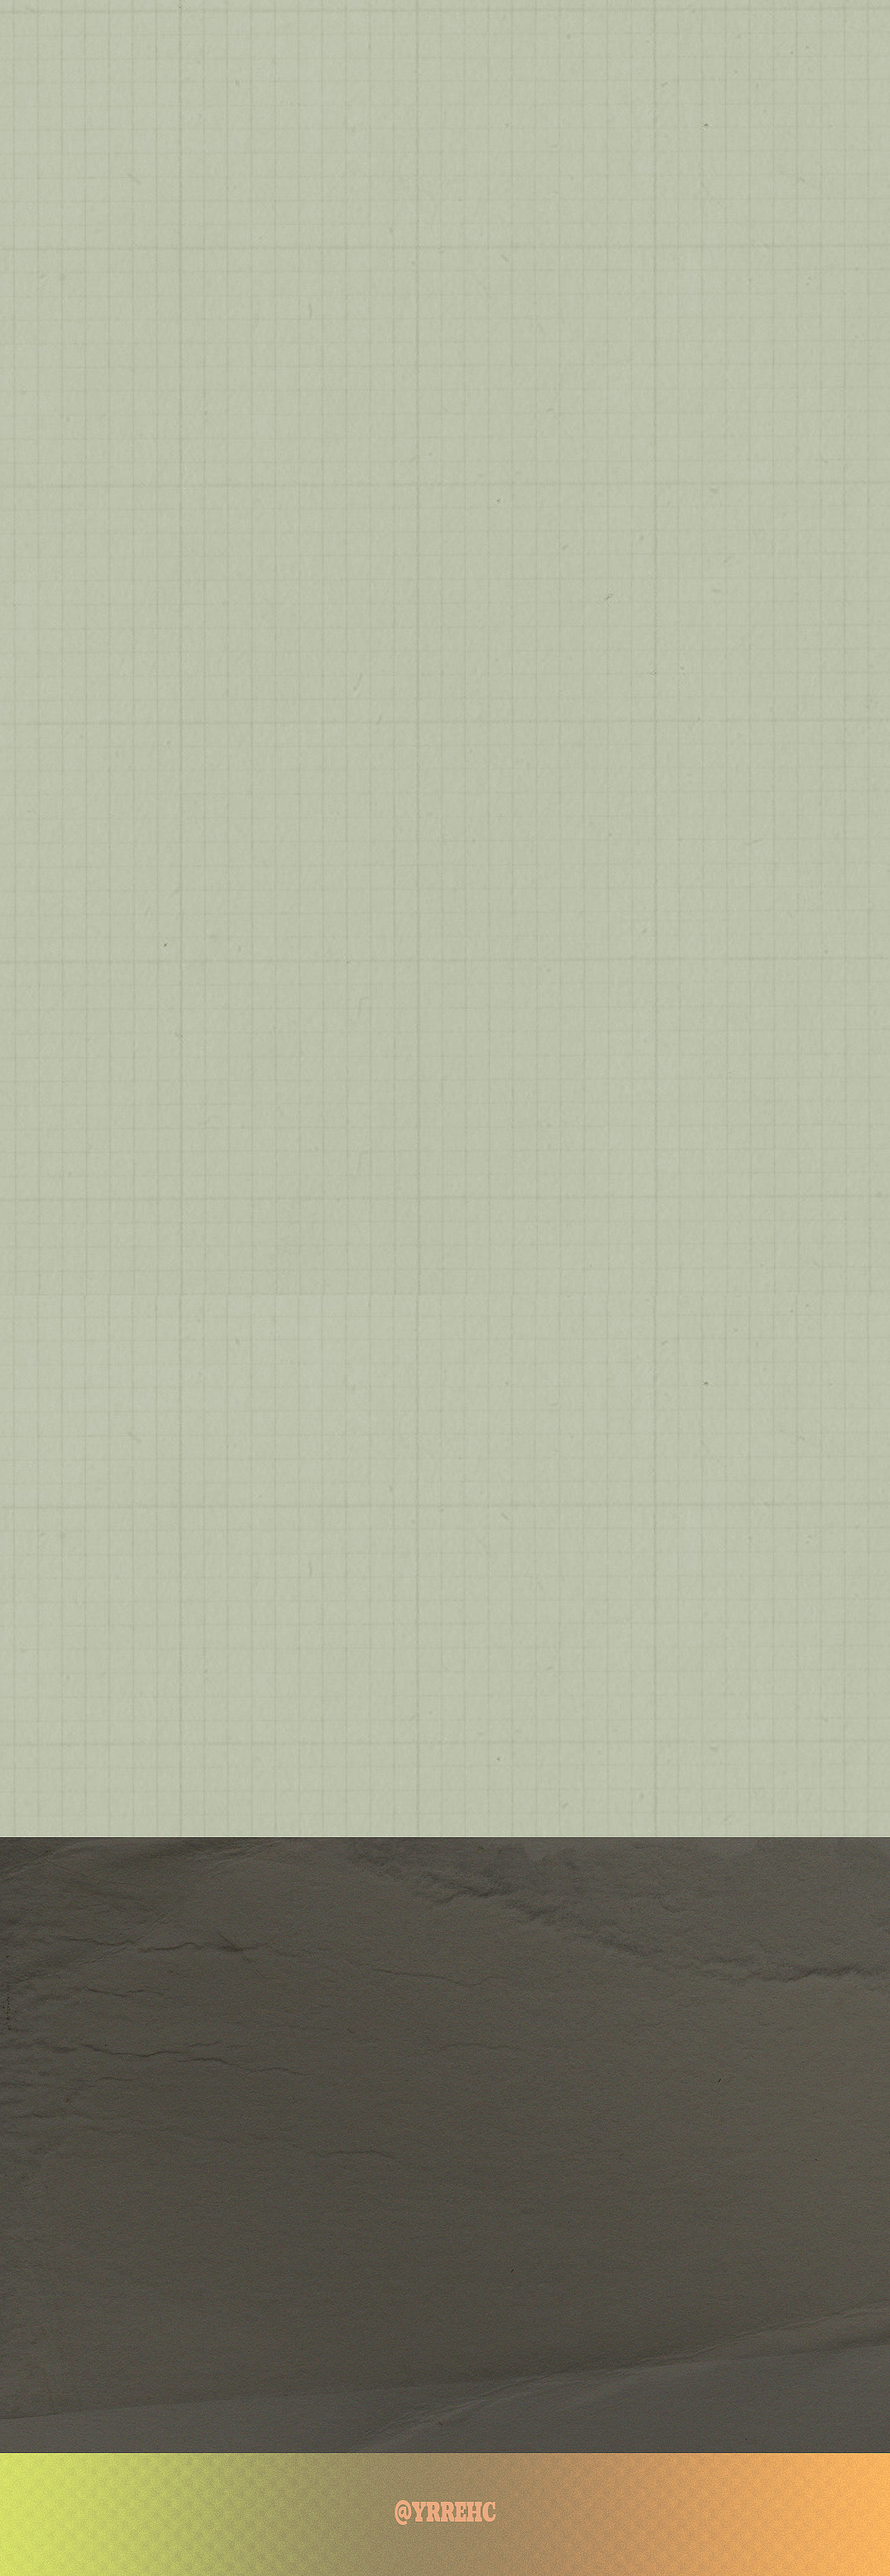
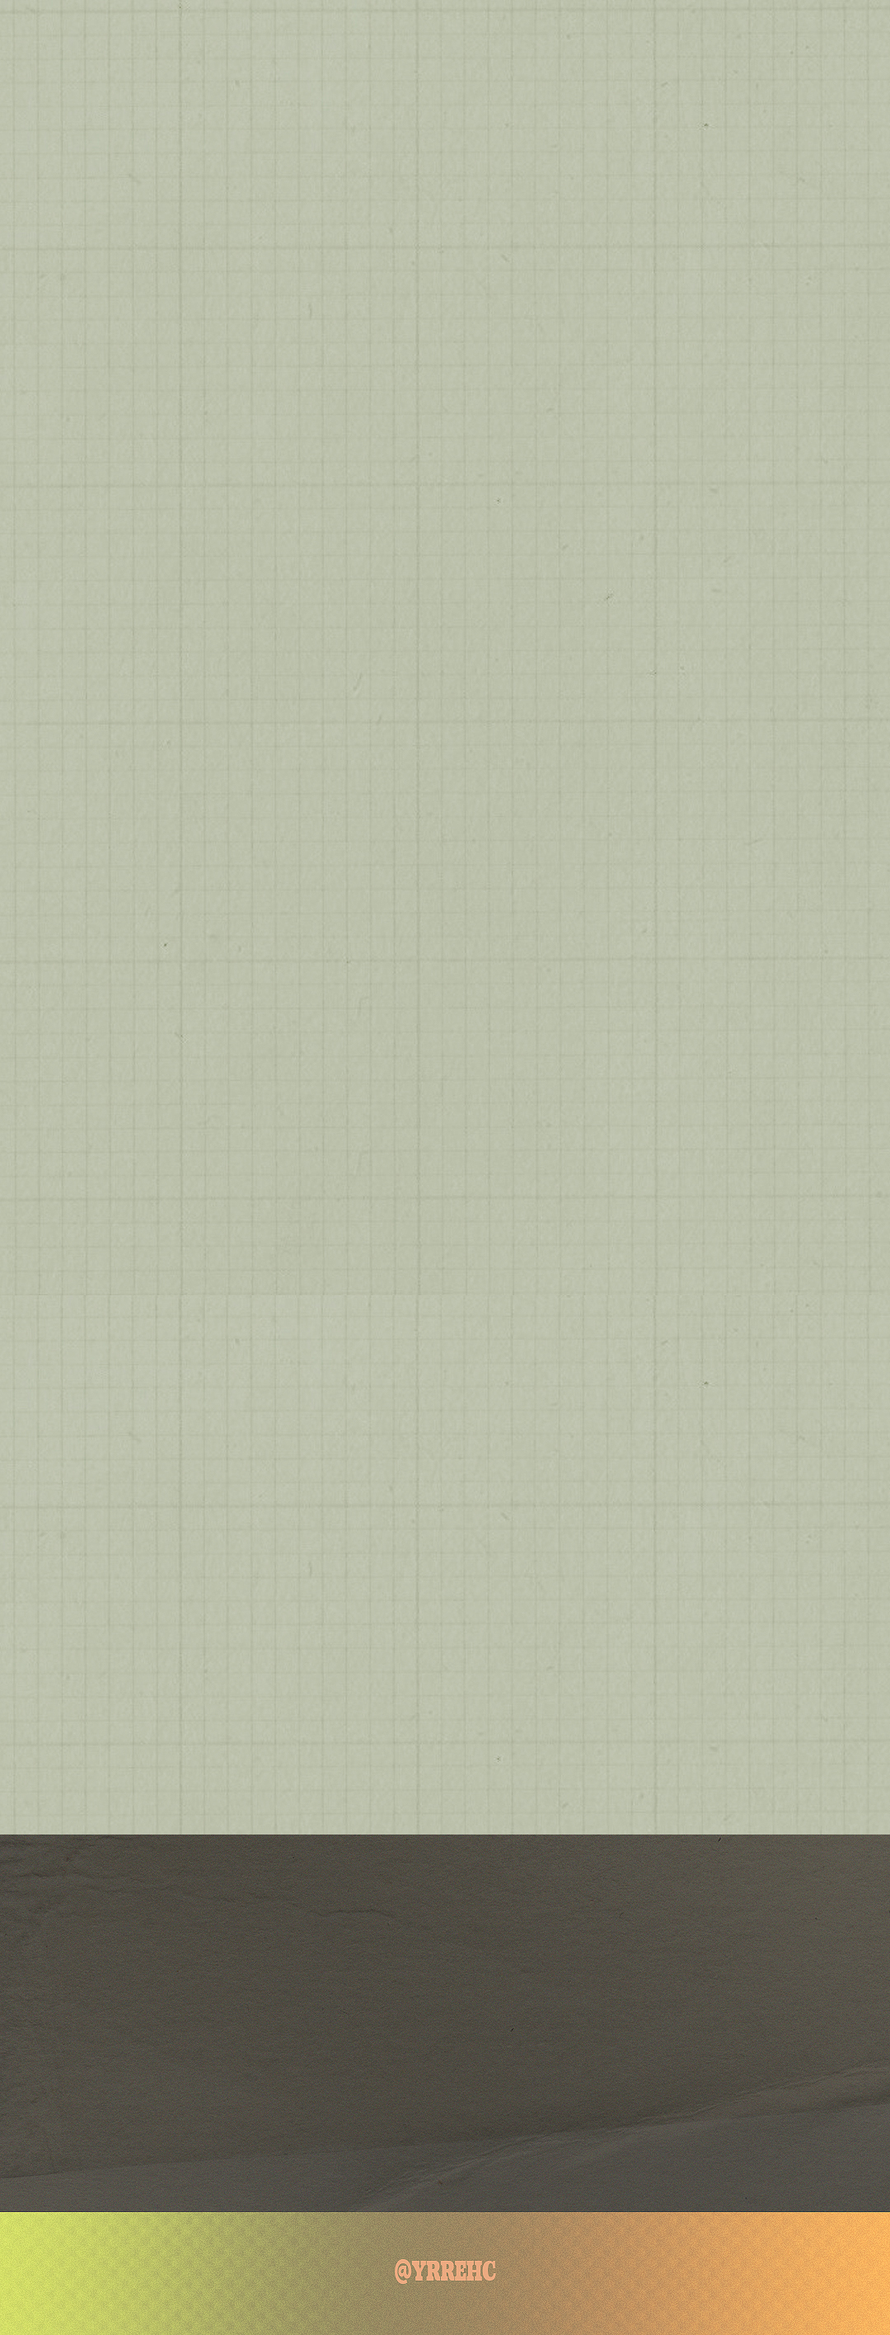
更新

Changed region(s): [[0.0, 0.7147, 1.0, 0.8079], [0.0, 0.9322, 1.0, 0.9944]]

diff --git a/index.html b/index.html
@@ -2,7 +2,7 @@
 <html lang="zh-CN"><head><meta charset="utf-8"><meta name="viewport" content="width=device-width,initial-scale=1"><meta name="color-scheme" content="light dark"><title>遗产分割公证会</title>
 <link rel="preconnect" href="https://fonts.googleapis.com">
   <link rel="preconnect" href="https://fonts.gstatic.com" crossorigin>
-  <link href="https://fonts.googleapis.com/css2?family=Noto+Sans+SC:wght@300;400;500&family=Noto+Serif+SC:wght@400;600&display=swap" rel="stylesheet"><link rel="stylesheet" href="style.css?v=1"><script defer src="https://static.cloudflareinsights.com/beacon.min.js" data-cf-beacon='{"token":"cc3326733543405881d645b008275c07"}'></script><link rel="stylesheet" href="site.css?v=2"><link rel="stylesheet" href="reader-ui.css?v=1"><link rel="stylesheet" href="home.css?v=2"><link rel="preload" as="image" href="assets/legacy-back.jpg" media="(max-width:640px)"><link rel="preload" as="image" href="assets/legacy-back-desktop.jpg" media="(min-width:641px)"><link rel="prefetch" href="01.html" as="document"></head><body class="legacy-home"><header class="site-header"><a class="site-home site-name" href="index.html" aria-label="返回作品目录">遗产分割公证会</a><div class="word-count">全篇字数：49,264</div><div class="toolbar"><button class="round" id="settingsButton" aria-label="阅读设置" aria-controls="settingsPanel" aria-expanded="false">◐</button></div></header><aside class="panel" id="settingsPanel" aria-label="阅读设置" inert>
+  <link href="https://fonts.googleapis.com/css2?family=Noto+Sans+SC:wght@300;400;500&family=Noto+Serif+SC:wght@400;600&display=swap" rel="stylesheet"><link rel="stylesheet" href="style.css?v=1"><script defer src="https://static.cloudflareinsights.com/beacon.min.js" data-cf-beacon='{"token":"cc3326733543405881d645b008275c07"}'></script><link rel="stylesheet" href="site.css?v=2"><link rel="stylesheet" href="reader-ui.css?v=1"><link rel="stylesheet" href="home.css?v=3"><link rel="preload" as="image" href="assets/legacy-back.jpg?v=2" media="(max-width:640px)"><link rel="preload" as="image" href="assets/legacy-back-desktop.jpg" media="(min-width:641px)"><link rel="prefetch" href="01.html" as="document"></head><body class="legacy-home"><header class="site-header"><a class="site-home site-name" href="index.html" aria-label="返回作品目录">遗产分割公证会</a><div class="word-count">全篇字数：49,264</div><div class="toolbar"><button class="round" id="settingsButton" aria-label="阅读设置" aria-controls="settingsPanel" aria-expanded="false">◐</button></div></header><aside class="panel" id="settingsPanel" aria-label="阅读设置" inert>
     <div class="panel-head"><span>阅读设置</span><button class="close" data-close>关闭</button></div>
     <div class="group"><span class="label">字体</span><div class="options font-options"><button class="choice active" data-font="serif">思源宋体</button><button class="choice" data-font="sans">思源黑体</button><button class="choice" data-font="light">苹方细体</button><button class="choice" data-font="system">手机系统</button></div></div>
     <div class="group"><span class="label">字号</span><div class="options sizes"><button class="choice" data-size="12">一咪咪</button><button class="choice" data-size="14">特小</button><button class="choice active" data-size="16">小</button><button class="choice" data-size="18">适中</button><button class="choice" data-size="20">大</button><button class="choice" data-size="23">特大</button></div></div>
@@ -32,4 +32,4 @@
 <div class="legacy-layer legacy-reveal legacy-chapter-card" style="left:0%;top:64.046512%;width:50%;aspect-ratio:540/272;--reveal-delay:320ms" data-layer="20" data-reveal="fade"><img src="assets/legacy-layer-20.png" width="540" height="272" alt="" draggable="false"><a class="legacy-chapter-hit" style="left:2.222222%;top:12.132353%;width:92.962963%;height:76.102941%" href="05.html" aria-label="Chapter05"><span class="legacy-sr-only">Chapter05</span></a></div>
 <div class="legacy-layer legacy-reveal legacy-chapter-card" style="left:50%;top:64.55814%;width:41.944444%;aspect-ratio:453/239;--reveal-delay:400ms" data-layer="21" data-reveal="fade"><img src="assets/legacy-layer-21.png" width="453" height="239" alt="" draggable="false"><a class="legacy-chapter-hit" style="left:2.869757%;top:11.715481%;width:97.130243%;height:79.497908%" href="06.html" aria-label="Chapter06"><span class="legacy-sr-only">Chapter06</span></a></div>
 <div class="legacy-layer legacy-reveal legacy-chapter-card" style="left:0%;top:68.697674%;width:95.277778%;aspect-ratio:1029/325;--reveal-delay:480ms" data-layer="22" data-reveal="fade"><img src="assets/legacy-layer-22.png" width="1029" height="325" alt="" draggable="false"><a class="legacy-chapter-hit" style="left:3.109815%;top:15.384615%;width:49.368319%;height:77.846154%" href="07.html" aria-label="Chapter07"><span class="legacy-sr-only">Chapter07</span></a></div>
-<div class="legacy-layer legacy-reveal legacy-closing" style="left:17.592593%;top:81.139535%;width:63.518519%;aspect-ratio:686/645" data-layer="23" data-reveal="fade" aria-hidden="true"><img src="assets/legacy-layer-23.png" width="686" height="645" alt="" draggable="false"></div><footer class="legacy-signature" aria-label="署名">@YRREHC</footer></main><script src="reader.js?v=2"></script><script src="reader-ui.js?v=1"></script><script src="home.js?v=2"></script></body></html>
+<div class="legacy-layer legacy-reveal legacy-closing" style="left:17.592593%;top:81.139535%;width:63.518519%;aspect-ratio:686/645" data-layer="23" data-reveal="fade" aria-hidden="true"><img src="assets/legacy-layer-23.png" width="686" height="645" alt="" draggable="false"></div><footer class="legacy-signature" aria-label="署名">@YRREHC</footer></main><script src="reader.js?v=2"></script><script src="reader-ui.js?v=1"></script><script src="home.js?v=3"></script></body></html>

diff --git a/home.js b/home.js
@@ -43,9 +43,10 @@
     const travel = Math.max(0,document.documentElement.scrollHeight - innerHeight);
     let height;
     if (mobileLayout.matches) {
-      // Keep the supplied 1080 x 3124 sheet at its natural width-based height.
-      const naturalHeight = poster.clientWidth * 3124 / 1080;
-      height = Math.max(innerHeight,naturalHeight);
+      // Keep the supplied 1080 x 2832 sheet at its natural width-based height.
+      const naturalHeight = poster.clientWidth * 2832 / 1080;
+      // The light paper ends at source row 2225; keep it across the first screen.
+      height = Math.max((innerHeight + 1) * 2832 / 2225,naturalHeight);
       // Keep the slower pan within the natural image bounds.
       const availableTravel = Math.max(0,height - innerHeight) * .85;
       backgroundSpeed = reducedMotion.matches || !travel ? 0 : Math.min(.3,availableTravel / travel);
@@ -56,8 +57,13 @@
     }
     backgroundTravel = travel;
     backgroundEnd = innerHeight - height;
-    // The complete bottom is visible at the end; crop surplus from the top.
-    backgroundStart = Math.min(0,backgroundEnd + travel * backgroundSpeed);
+    if (mobileLayout.matches) {
+      // Start at the top of the supplied sheet; surplus stays below the viewport.
+      backgroundStart = 0;
+      backgroundEnd = -travel * backgroundSpeed;
+    } else {
+      backgroundStart = Math.min(0,backgroundEnd + travel * backgroundSpeed);
+    }
     document.body.style.setProperty('--legacy-back-height',height + 'px');
     drawBackground();
   }

diff --git a/home.css b/home.css
@@ -1,6 +1,6 @@
 /* All foreground coordinates belong to the supplied 1080 x 4300 composition. */
 body.legacy-home{position:relative;isolation:isolate;background:var(--bg);overscroll-behavior-y:none}
-.legacy-home::before{content:"";position:fixed;z-index:0;top:0;left:50%;width:var(--legacy-page-width);height:var(--legacy-back-height,max(100svh,calc(100vw * 3124 / 1080)));transform:translate3d(-50%,var(--legacy-back-y,0px),0);pointer-events:none;background:#bfc6aa url("assets/legacy-back.jpg") center bottom/cover no-repeat;will-change:transform}
+.legacy-home::before{content:"";position:fixed;z-index:0;top:0;left:50%;width:var(--legacy-page-width);height:var(--legacy-back-height,max(100svh,calc(100vw * 2832 / 1080)));transform:translate3d(-50%,var(--legacy-back-y,0px),0);pointer-events:none;background:#bfc6aa url("assets/legacy-back.jpg?v=2") center top/cover no-repeat;will-change:transform}
 .legacy-home .site-header{position:fixed;top:0;left:50%;transform:translateX(-50%);margin:0}
 .legacy-home-main{position:relative;isolation:isolate;width:var(--legacy-page-width);aspect-ratio:1080/4300;min-height:0;margin:0 auto;padding:0;overflow:hidden;line-height:1;letter-spacing:0;transition:opacity .52s ease}
 .legacy-layer{position:absolute;display:block;margin:0;padding:0;border:0;background:none;line-height:0;text-decoration:none;-webkit-tap-highlight-color:transparent}
